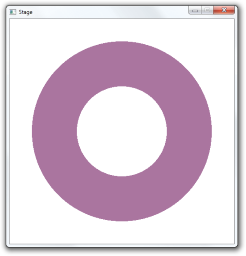
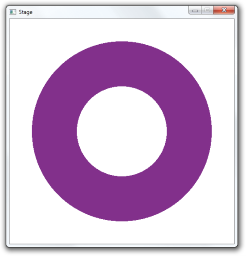
Preparing for release

diff --git a/src/main/matlab/+stage/+demos/centerSurround.m b/src/main/matlab/+stage/+demos/centerSurround.m
@@ -6,14 +6,14 @@ function centerSurround()
     canvas = Canvas(window, 'disableDwm', false);
 
     % Create the surround stimulus.
-    surround = stage.builtin.stimuli.Ellipse(2048);
+    surround = stage.builtin.stimuli.Ellipse(4096);
     surround.position = canvas.size/2;
     surround.radiusX = 200;
     surround.radiusY = 200;
-    surround.color = [170/255, 117/255, 159/255];
+    surround.color = [130/255, 48/255, 139/255];
     
     % Create the center stimulus.
-    center = stage.builtin.stimuli.Ellipse(2048);
+    center = stage.builtin.stimuli.Ellipse(4096);
     center.position = canvas.size/2;
     center.radiusX = surround.radiusX/2;
     center.radiusY = surround.radiusY/2;

diff --git a/src/main/matlab/+stage/+app/App.m b/src/main/matlab/+stage/+app/App.m
@@ -3,7 +3,7 @@ classdef App < handle
     methods (Static)
         
         function v = version()
-            v = '2.0.2.1'; % i.e. 2.0-rc1
+            v = '2.0.3.0'; % i.e. 2.0-r
         end
         
     end
